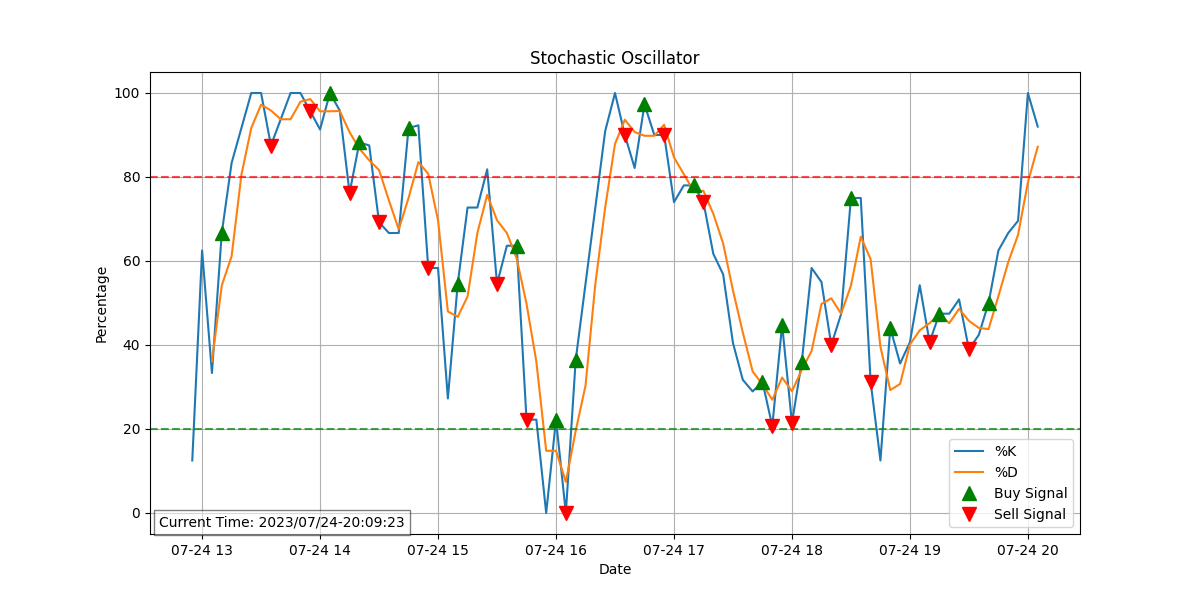
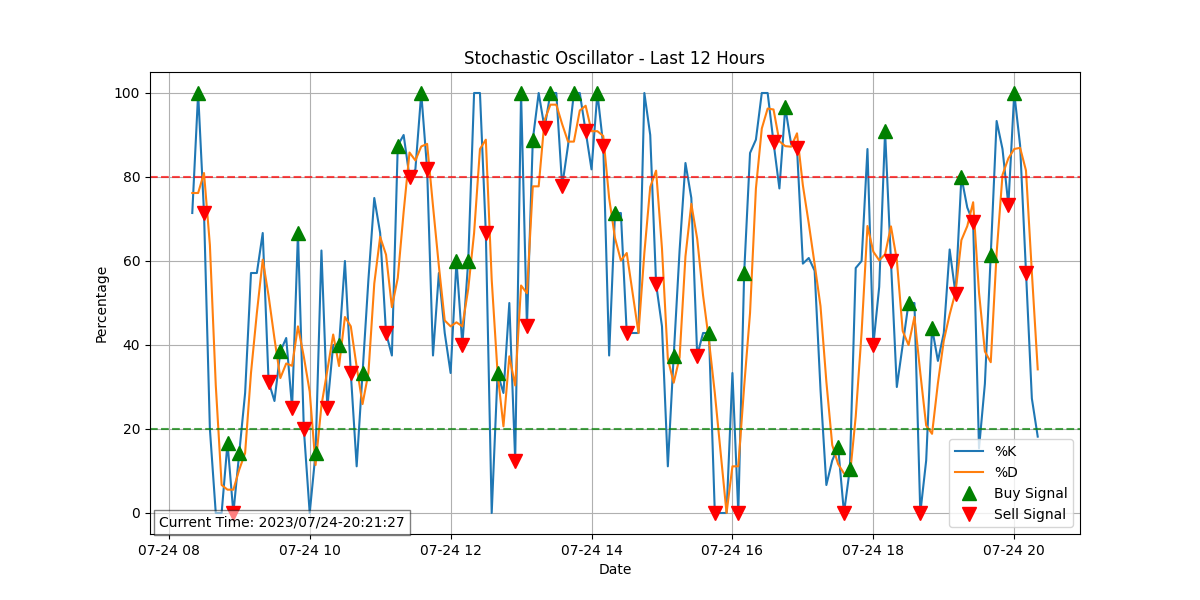
Improved Stochastic to show only 12 Hours of Data. Improved Stochastic to calc 5 Days.

diff --git a/Modules/Stochastic_Analyzer/Stochastic_Analyzer.py b/Modules/Stochastic_Analyzer/Stochastic_Analyzer.py
@@ -1,11 +1,12 @@
-import numpy as np
-import pandas as pd
-import matplotlib.pyplot as plt
-import pyupbit
 import os
 from datetime import datetime
+from datetime import timedelta
 
-def stochastic_calc(coin_name, interval="minute5", count=100):
+import matplotlib.pyplot as plt
+import pyupbit
+
+
+def stochastic_calc(coin_name, interval="minute5", count=1440):
     # Get historical price data from pyupbit
     df = pyupbit.get_ohlcv(coin_name, interval=interval, count=count)
 
@@ -15,8 +16,8 @@ def stochastic_calc(coin_name, interval="minute5", count=100):
     close = df['close']
 
     # Stochastic Oscillator Formula
-    lowest_low = low.rolling(14).min()
-    highest_high = high.rolling(14).max()
+    lowest_low = low.rolling(5).min()
+    highest_high = high.rolling(5).max()
     k_percent = 100 * (close - lowest_low) / (highest_high - lowest_low)
     d_percent = k_percent.rolling(3).mean()
 
@@ -27,21 +28,36 @@ def stochastic_calc(coin_name, interval="minute5", count=100):
     return df, k_percent, d_percent, buy_signals, sell_signals
 
 
-def stochastic_grph(coin_name, df, k_percent, d_percent, buy_signals, sell_signals):
+def stochastic_grph(coin_name, df, k_percent, d_percent, buy_signals, sell_signals, recent_hours=12):
+    # Get the end time of the data
+    end_time = df.index[-1]
+
+    # Calculate the start time for the last 12 hours
+    start_time = end_time - timedelta(hours=recent_hours)
+
+    # Slice the data for the last 12 hours
+    recent_df = df[df.index >= start_time]
+    recent_k_percent = k_percent[k_percent.index >= start_time]
+    recent_d_percent = d_percent[d_percent.index >= start_time]
+    recent_buy_signals = buy_signals[buy_signals.index >= start_time]
+    recent_sell_signals = sell_signals[sell_signals.index >= start_time]
+
     plt.close('all')
     plt.figure(figsize=(12, 6))
-    plt.plot(df.index, k_percent, label='%K')
-    plt.plot(df.index, d_percent, label='%D')
+    plt.plot(recent_df.index, recent_k_percent, label='%K')
+    plt.plot(recent_df.index, recent_d_percent, label='%D')
 
     # Plot horizontal lines at 80 and 20
     plt.axhline(80, color='red', linestyle='dashed', alpha=0.7)
     plt.axhline(20, color='green', linestyle='dashed', alpha=0.7)
 
     # Plot buy and sell signals
-    plt.plot(df.index[buy_signals], k_percent[buy_signals], '^', markersize=10, color='g', label='Buy Signal')
-    plt.plot(df.index[sell_signals], k_percent[sell_signals], 'v', markersize=10, color='r', label='Sell Signal')
+    plt.plot(recent_df.index[recent_buy_signals], recent_k_percent[recent_buy_signals], '^', markersize=10, color='g',
+             label='Buy Signal')
+    plt.plot(recent_df.index[recent_sell_signals], recent_k_percent[recent_sell_signals], 'v', markersize=10, color='r',
+             label='Sell Signal')
 
-    plt.title('Stochastic Oscillator')
+    plt.title('Stochastic Oscillator - Last 12 Hours')
     plt.xlabel('Date')
     plt.ylabel('Percentage')
     plt.legend()

diff --git a/main.py b/main.py
@@ -32,7 +32,7 @@ for coin in coin_list:
         Macd.macd_grph(coin)
         print("[", round(progress / 30 * 100), "%] MACD Done on coin ", coin)
     elif mode == 3:
-        df, k_percent, d_percent, buy_signals, sell_signals = Stct.stochastic_calc(coin, 'minute5', 100)
+        df, k_percent, d_percent, buy_signals, sell_signals = Stct.stochastic_calc(coin, 'minute5', 1440)
         Stct.stochastic_grph(coin, df, k_percent, d_percent, buy_signals, sell_signals)
         print("[", round(progress / 30 * 100), "%] STCT Done on coin ", coin)
     else:
